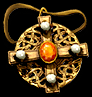
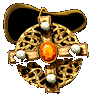
Put every item on one black plate, and show it 2.3x bigger
The sprites are 98 to 392px of native art but were capped at 72px, so
they were both tiny and aliased by image-rendering:pixelated. They now
fill a fixed square plate, 176px on phones and 240px on desktop, with
smooth scaling.

The plate is pure black because a few sprites bake a black background
in. Those used to sit on the page as visible rectangles.

amulet-gold and amulet-pentagram had their black keyed out, so they no
longer depend on the plate colour. dire-carapace and viper-casque are
screenshot crops with the green inventory grid behind the item, which a
flood fill cannot remove without eating the item. They still need a
clean source.

Sockets shrank from 24 to 17 percent of the item, otherwise six of them
covered a Berserker Axe completely.

diff --git a/index.html b/index.html
@@ -48,7 +48,7 @@
   --bg:#0b0b0d;
   --bg-elev:#161619;
   --bg-elev-2:#1f1f25;
-  --bg-stage:#050506;
+  --bg-stage:#000;            /* a few sprites bake in pure black, so the plate matches */
   --text:#ececf1;
   --text-dim:#a2a2ad;
   --text-faint:#6d6d78;
@@ -68,6 +68,10 @@
   --sp-5:24px;
   --sp-6:32px;
   --sp-7:40px;
+
+  /* the item plate: one fixed square so every item reads the same size */
+  --stage:176px;
+  --socket:24px;
 
   /* D2 item quality colors, exact */
   --q-unique:#c7b377;
@@ -173,19 +177,24 @@ header{
 
 /* the "in-game stage": dark vignette the item sits on, like a screenshot */
 .sprite{display:flex;flex-direction:column;align-items:center;gap:var(--sp-2)}
-.sprite-stage{position:relative;display:inline-flex;align-items:center;justify-content:center}
+.sprite-stage{
+  position:relative;display:flex;align-items:center;justify-content:center;
+  width:var(--stage);height:var(--stage);padding:var(--sp-4);
+  background:var(--bg-stage);
+  border:1px solid var(--border);border-radius:var(--radius-sm);
+}
 .sprite-base{
-  max-width:72px;max-height:72px;display:block;image-rendering:pixelated;
+  width:100%;height:100%;object-fit:contain;display:block;
   filter:drop-shadow(0 2px 6px rgba(0,0,0,.55));transition:opacity .2s ease;
 }
 /* empty sockets shown over the item as recessed holes; hold gems when filled */
 .sockets{
   position:absolute;inset:0;display:flex;flex-direction:column;
-  align-items:center;justify-content:center;gap:4px;pointer-events:none;
+  align-items:center;justify-content:center;gap:var(--sp-2);pointer-events:none;
 }
-.socket-row{display:flex;justify-content:center;gap:4px}
+.socket-row{display:flex;justify-content:center;gap:var(--sp-2)}
 .socket{
-  width:20px;height:20px;border-radius:50%;opacity:.68;
+  width:var(--socket);height:var(--socket);border-radius:50%;opacity:.68;
   background:radial-gradient(circle at 50% 35%, rgba(20,20,26,.5) 0%, rgba(0,0,0,.85) 68%);
   box-shadow:
     inset 0 2px 3px rgba(0,0,0,.95),
@@ -194,7 +203,7 @@ header{
     0 1px 1px rgba(255,255,255,.07);
   display:flex;align-items:center;justify-content:center;
 }
-.socket-gem{width:20px;height:20px;display:none;image-rendering:pixelated;filter:drop-shadow(0 1px 1px rgba(0,0,0,.85))}
+.socket-gem{width:var(--socket);height:var(--socket);display:none;filter:drop-shadow(0 1px 1px rgba(0,0,0,.85))}
 /* filled: gem sits in the socket at full strength, the rim still reads around it */
 .tip-col.show-fill .socket{
   opacity:1;
@@ -384,7 +393,8 @@ footer p{margin:0 0 var(--sp-2)}
 
 @media (min-width:640px){
   .wrap{padding:0 var(--sp-5) 88px}
-  .sprite-base{max-width:84px;max-height:84px}
+  :root{--stage:240px;--socket:32px}
+  .sprite-stage{padding:var(--sp-5)}
 }
 </style>
 </head>
